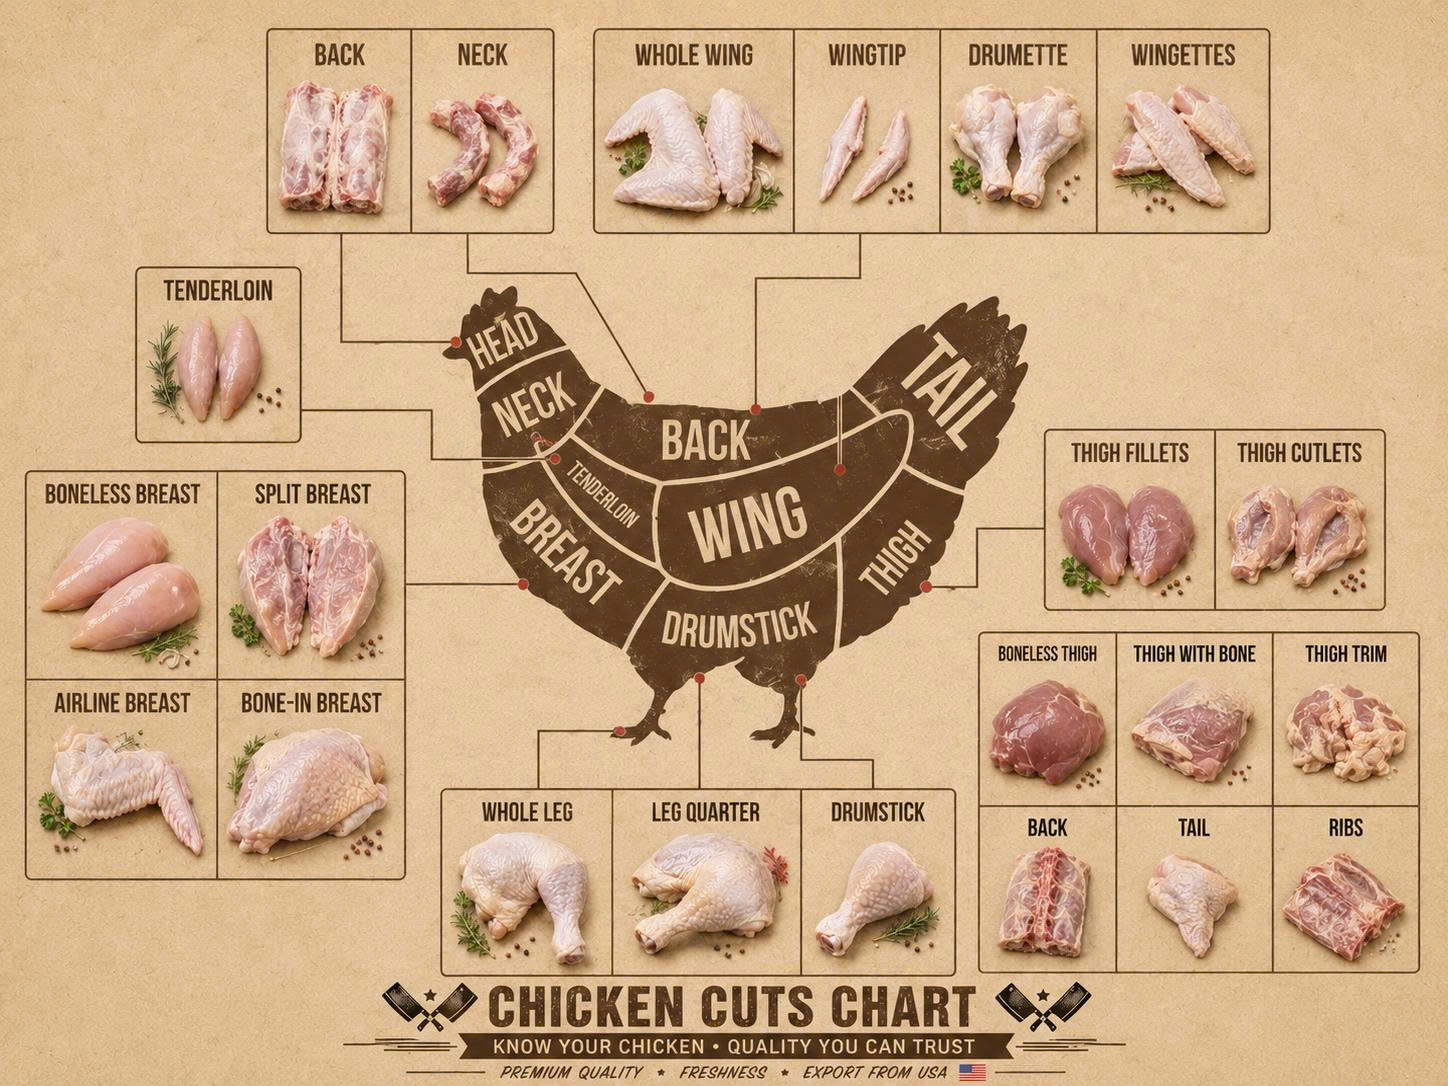
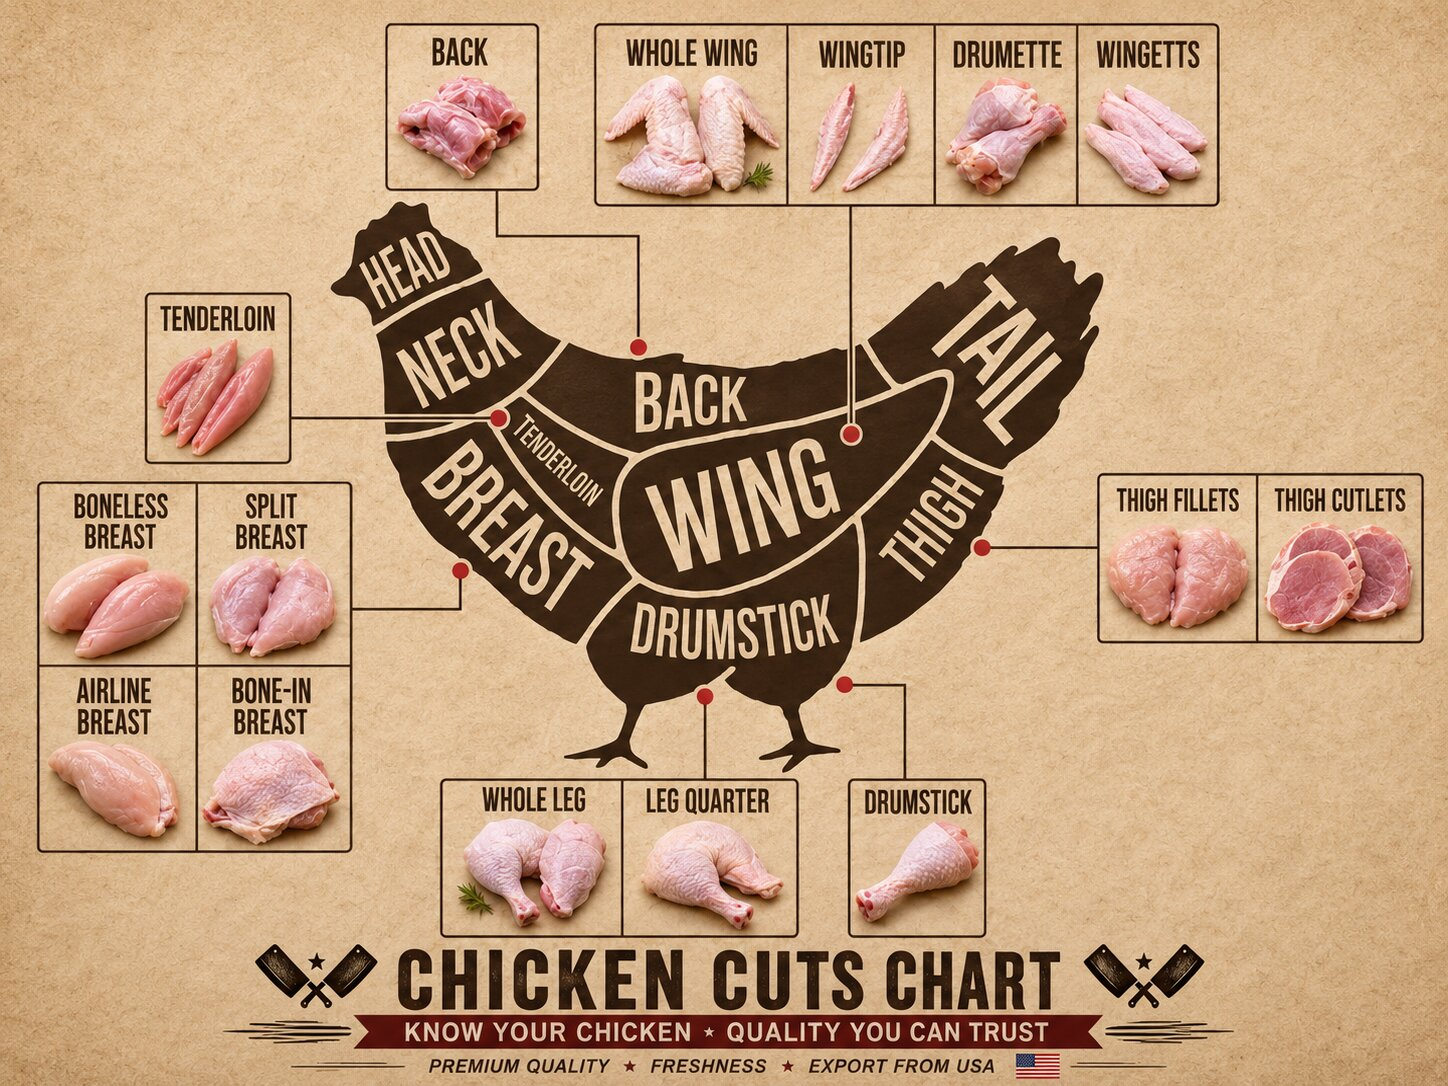
feat: Add Quick Contact buttons to map cuts and grid products, fix image aspect ratio

diff --git a/src/app/[locale]/products/page.tsx b/src/app/[locale]/products/page.tsx
@@ -4,8 +4,9 @@ import Image from "next/image";
 import { usePathname, useRouter, useSearchParams } from "next/navigation";
 import { useMemo, useState } from "react";
 import { motion, AnimatePresence } from "motion/react";
-import { X } from "lucide-react";
+import { Mail, X } from "lucide-react";
 
+import { QuickEmailButton } from "../../../components/contact/QuickEmailButton";
 import { InteractiveCutMap, ANIMAL_CUTS } from "../../../components/products/InteractiveCutMap";
 import { getProductSearchableText } from "../../../lib/catalog";
 import { matchesSearchQuery, normalizeSearchText } from "../../../lib/search";
@@ -124,7 +125,7 @@ export default function ProductsPage() {
                 <p className="text-[#c9a86a] uppercase tracking-[0.3em] text-xs font-bold">Premium US Sourcing</p>
               </div>
               
-              <div className="w-full max-w-5xl">
+              <div className="w-full px-4 lg:px-12">
                 <InteractiveCutMap 
                   category={activeCategory as "beef" | "chicken"} 
                   selectedCutId={selectedCutId} 
@@ -176,16 +177,23 @@ export default function ProductsPage() {
             <div className="columns-1 sm:columns-2 lg:columns-3 gap-12 sm:gap-16 space-y-12 sm:space-y-16">
                {visibleProducts.map((product) => (
                  <div key={product.id} className="break-inside-avoid group cursor-pointer relative">
-                    <div className="relative aspect-[4/5] w-full overflow-hidden bg-[#0d1821] mb-6">
+                    <div className="relative aspect-[4/5] w-full overflow-hidden bg-[#0d1821] mb-6 rounded-lg">
                       <Image 
                         src={product.image} 
                         alt={product.name[language]} 
                         fill 
                         className="object-cover transition-all duration-[1.5s] group-hover:scale-105 opacity-80 group-hover:opacity-100" 
                       />
-                      <div className="absolute inset-0 bg-[#071018]/10 group-hover:bg-transparent transition-colors duration-700" />
+                      <div className="absolute inset-0 bg-[#071018]/10 group-hover:bg-[#071018]/50 backdrop-blur-[0px] group-hover:backdrop-blur-sm transition-all duration-700 flex items-center justify-center opacity-0 group-hover:opacity-100 z-20">
+                        <QuickEmailButton 
+                          products={[product]} 
+                          className="bg-[#c9a86a] text-[#0b151c] px-5 py-3 rounded-full text-xs font-bold uppercase tracking-widest hover:bg-white hover:scale-105 transition-all duration-300 shadow-xl flex items-center gap-2 transform translate-y-4 group-hover:translate-y-0"
+                        >
+                          <Mail size={16} /> {t("quick_contact")}
+                        </QuickEmailButton>
+                      </div>
                     </div>
-                    <div className="pr-4 border-l border-[#c9a86a]/0 group-hover:border-[#c9a86a]/30 pl-4 transition-all duration-500">
+                    <div className="pr-4 border-l border-[#c9a86a]/0 group-hover:border-[#c9a86a]/30 pl-4 transition-all duration-500 relative z-10">
                       <h3 className="font-serif text-3xl text-[#f5f5f5] mb-3" style={{ fontFamily: '"Playfair Display", "Cormorant Garamond", serif' }}>
                         {product.name[language]}
                       </h3>
@@ -236,9 +244,18 @@ export default function ProductsPage() {
                 </button>
                 
                 <p className="text-[#c9a86a] uppercase tracking-[0.2em] text-[10px] font-bold mb-4">Cut Specification</p>
-                <h2 className="font-serif text-4xl md:text-5xl text-[#f5f5f5] mb-12 tracking-tight" style={{ fontFamily: '"Playfair Display", "Cormorant Garamond", serif' }}>
+                <h2 className="font-serif text-4xl md:text-5xl text-[#f5f5f5] mb-8 tracking-tight" style={{ fontFamily: '"Playfair Display", "Cormorant Garamond", serif' }}>
                   {getCutName(selectedCutId)}
                 </h2>
+                
+                <div className="mb-12">
+                  <QuickEmailButton 
+                    products={[{ id: selectedCutId, name: { en: `${getCutName(selectedCutId)} (${activeCategoryObj?.name.en})`, vi: "" }, categoryId: activeCategory, specs: {} } as any]} 
+                    className="inline-flex items-center gap-2 px-6 py-3 border border-[#c9a86a] text-[#c9a86a] hover:bg-[#c9a86a] hover:text-[#0b151c] transition-colors duration-300 rounded-full text-xs font-bold uppercase tracking-widest"
+                  >
+                    <Mail size={16} /> {t("quick_contact")}
+                  </QuickEmailButton>
+                </div>
                 
                 <div className="w-8 h-px bg-[#c9a86a]/50 mb-12" />
                 

diff --git a/src/components/products/InteractiveCutMap.tsx b/src/components/products/InteractiveCutMap.tsx
@@ -44,14 +44,17 @@ export function InteractiveCutMap({ category, selectedCutId, onSelectCut }: Inte
   const cuts = ANIMAL_CUTS[category] || [];
   const imageSrc = `/images/maps/${category}-cut.jpg`;
 
+  const aspectRatio = category === "beef" ? "2290 / 1856" : "1448 / 1086";
+
   return (
-    <div className="relative w-full aspect-[4/3] rounded-2xl overflow-hidden bg-[#0d1821]/50 border border-white/5">
+    <div className="relative w-full rounded-2xl overflow-hidden" style={{ aspectRatio, transform: "translateZ(0)" }}>
       <Image
         src={imageSrc}
         alt={`${category} Cut Map`}
         fill
         sizes="(max-width: 1024px) 100vw, 1024px"
-        className="object-contain"
+        className="object-contain rounded-2xl"
+        style={{ borderRadius: "1rem" }}
         priority
       />
       {cuts.map((cut) => {
